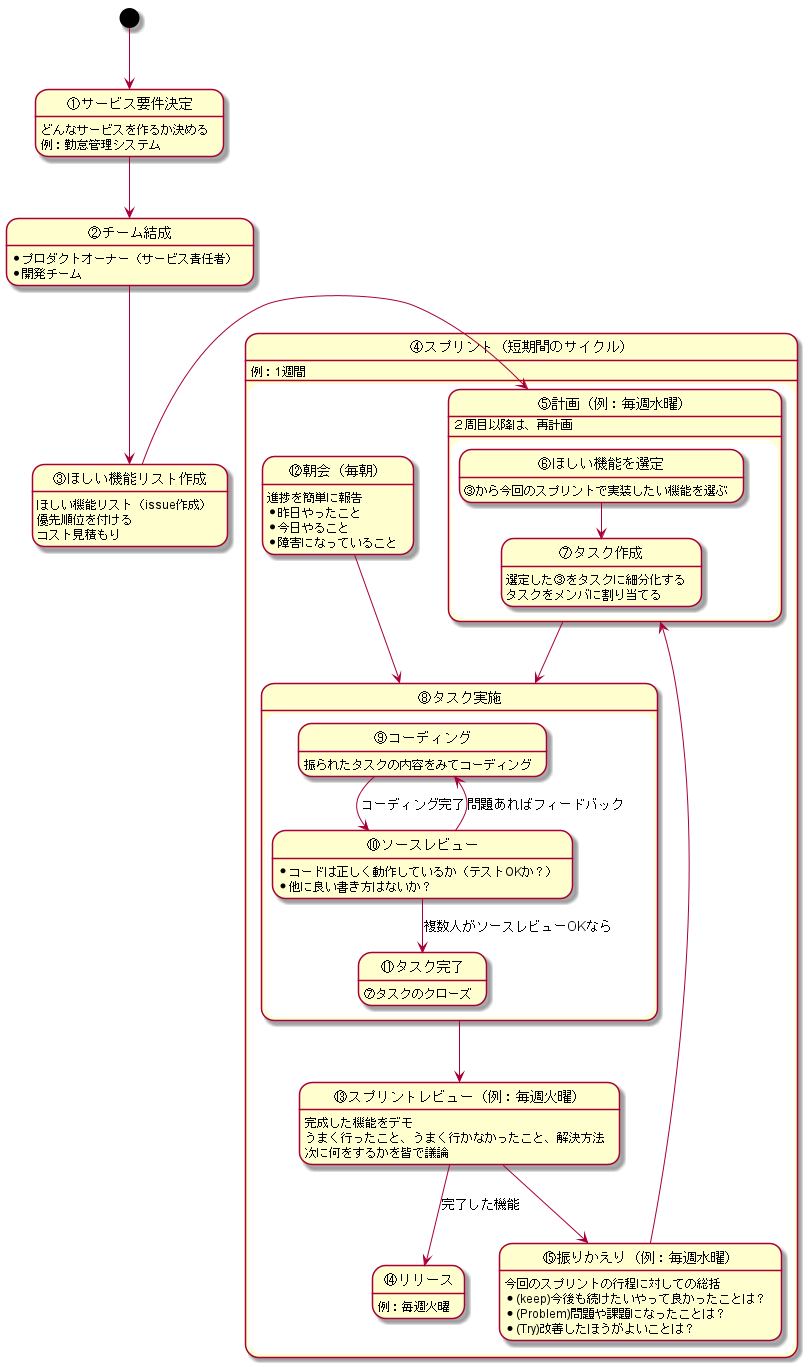
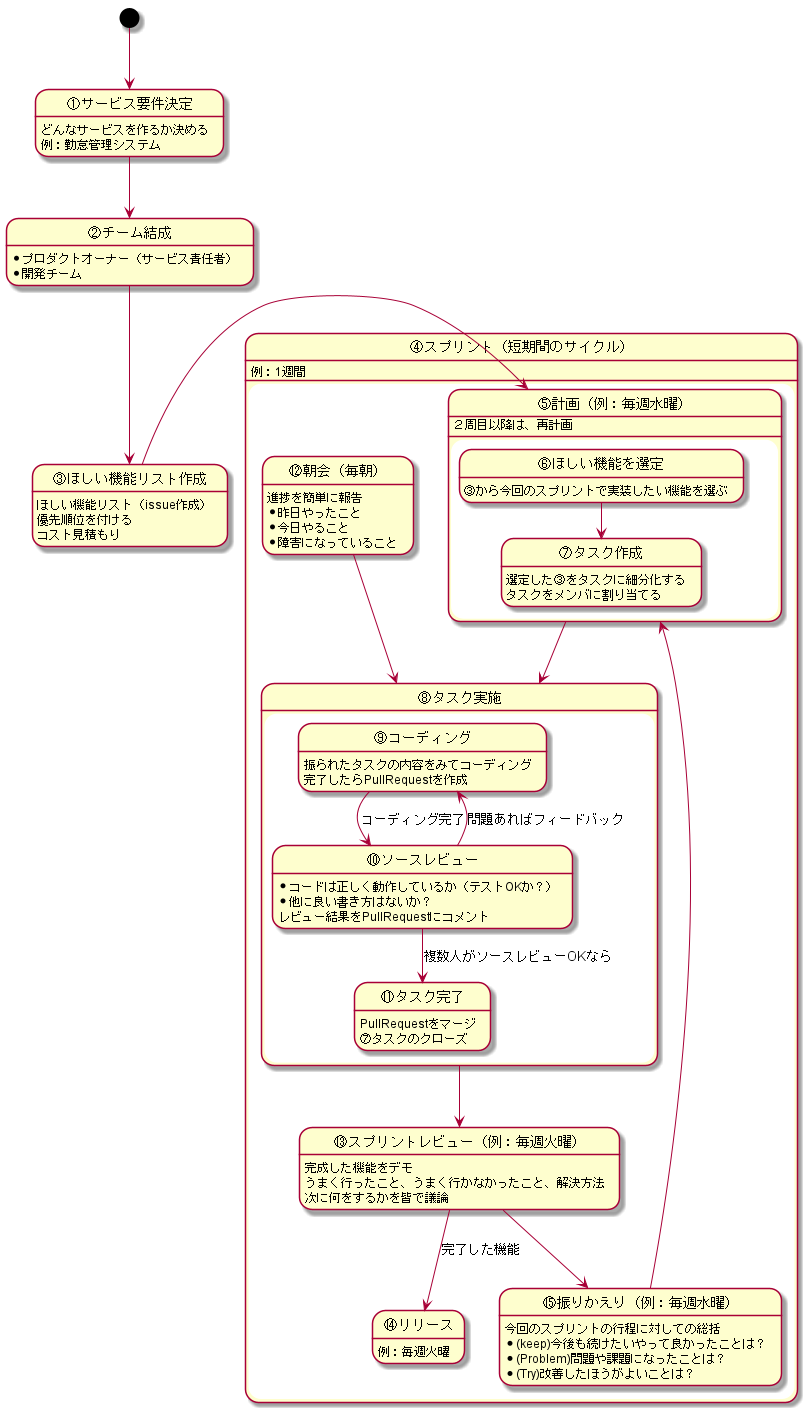
ワイヤフレーム追加など

Changed region(s): [[0.0, 0.1536, 0.9901, 0.9832], [0.0309, 0.0614, 0.2785, 0.1229], [0.2166, 0.2458, 0.2475, 0.2765]]

diff --git a/public/login.html b/public/login.html
@@ -1,0 +1,10 @@
+<!DOCTYPE html>
+<html lang="ja">
+<head>
+    <meta charset="UTF-8">
+    <title>login</title>
+</head>
+<body>
+
+</body>
+</html>

diff --git a/public/api/index.php b/public/api/index.php
@@ -1,4 +1,5 @@
 <?php
+date_default_timezone_set('Asia/Tokyo');
 if (PHP_SAPI == 'cli-server') {
     // To help the built-in PHP dev server, check if the request was actually for
     // something which should probably be served as a static file

diff --git a/src/settings.php b/src/settings.php
@@ -6,7 +6,7 @@ return [
 
         // Renderer settings
         'renderer' => [
-            'template_path' => __DIR__ . '/../templates/',
+            'template_path' => __DIR__ . '/templates/',
         ],
 
         // Monolog settings

diff --git a/docs/README.md b/docs/README.md
@@ -64,7 +64,25 @@ GitやDockerの知識はそれほど必要ではありません。
 フロントエンジニア向けのタスク、サーバエンジニア向けのタスクを難易度別に用意しますので、
 個人のスキルセットに合わせて、お選びいただく形となります。
 
-## 現状のサービス
+## GitHubを使った開発フローの手順
+各開発フローで使用するGitHubの機能は下記の手順となります。
+
+![dev_github_flow.puml](images/dev_github_flow.png)
+
+## サービスの機能について
+## 画面
+下記のような画面となります。
+
+![service_wire.puml](images/service_wire.png)
+
+## 使用する言語・FrameWork等
+### フロントサイド
+- Vue.js
+
+### サーバサイド
+- PHP7
+- Slim3
+- MySQL5.7
 
 ## タイムスケジュール
 
@@ -79,6 +97,6 @@ GitやDockerの知識はそれほど必要ではありません。
 |15:45 - 16:00|朝会           |
 |16:00 - 16:45|タスク実施           |
 |16:45 - 17:00|休憩                 |
-|17:00 - 17:30|⑬スプリントレビュー      |
-|17:00 - 17:30|⑮振りかえり           |
-|17:30 - 18:00|質問                 |
+|17:00 - 17:15|⑬スプリントレビュー  |
+|17:15 - 17:30|⑮振りかえり          |
+|17:30 - 18:00|質問 ・アンケート     |

diff --git a/.github/ISSUE_TEMPLATE/form.md b/.github/ISSUE_TEMPLATE/form.md
@@ -1,0 +1,38 @@
+---
+name: アンケート
+about: アンケート用テンプレート
+title: "お名前"
+labels: ''
+assignees: ''
+
+---
+
+# ハンズオンの内容はどうでしたか？
+- [ ] ★★★★★ 良かった
+- [ ] ★★★★ まあまあ
+- [ ] ★★★ 普通
+- [ ] ★★ ちょっと物足りない
+- [ ] ★ 微妙
+
+# 講師の説明はどうでしたか？
+- [ ] ★★★★★ 分かりやすい
+- [ ] ★★★★ まあまあ分かりやすい
+- [ ] ★★★ 普通
+- [ ] ★★ あまり分からない
+- [ ] ★ 微妙
+
+# ハンズオンの時間はどうでしたか？
+- [ ] 長い
+- [ ] まあまあ長い
+- [ ] ほどよい
+- [ ] ちょっと足りない
+- [ ] 短い
+
+# 今後も開催したら参加したいですか？
+- [ ] 是非参加したい
+- [ ] できれば参加したい
+- [ ] 検討する
+- [ ] 参加しない
+
+# ご意見等
+

diff --git a/.github/ISSUE_TEMPLATE/retrospective.md b/.github/ISSUE_TEMPLATE/retrospective.md
@@ -1,0 +1,19 @@
+---
+name: 振り返り
+about: 振り返りテンプレート
+title: ""
+labels: '振返り'
+assignees: ''
+
+---
+
+# (keep)今後も続けたいやって良かったことは？
+- 〇〇
+
+# (Problem)問題や課題になったことは？
+- 〇〇
+
+# (Try)改善したほうがよいことは？
+- 〇〇
+
+# 参考
